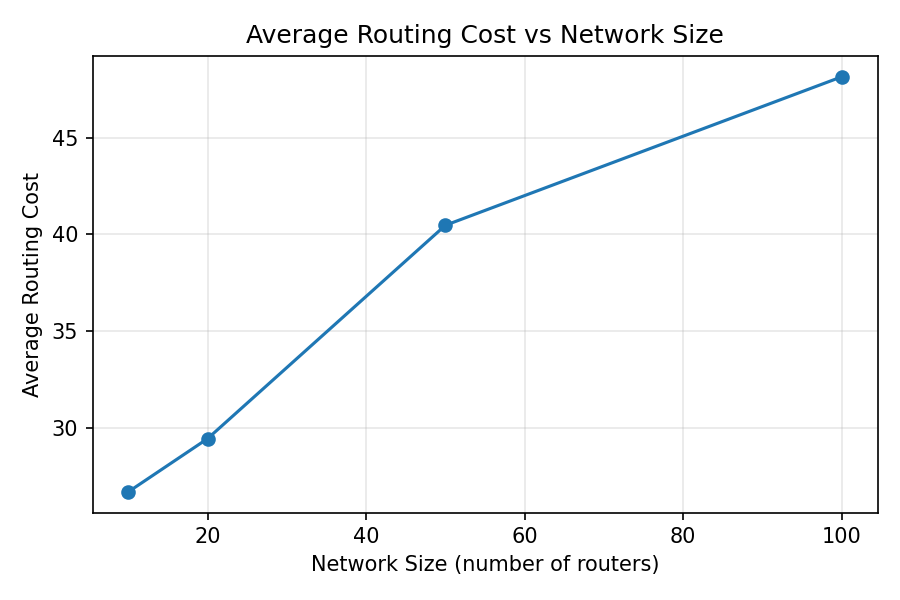
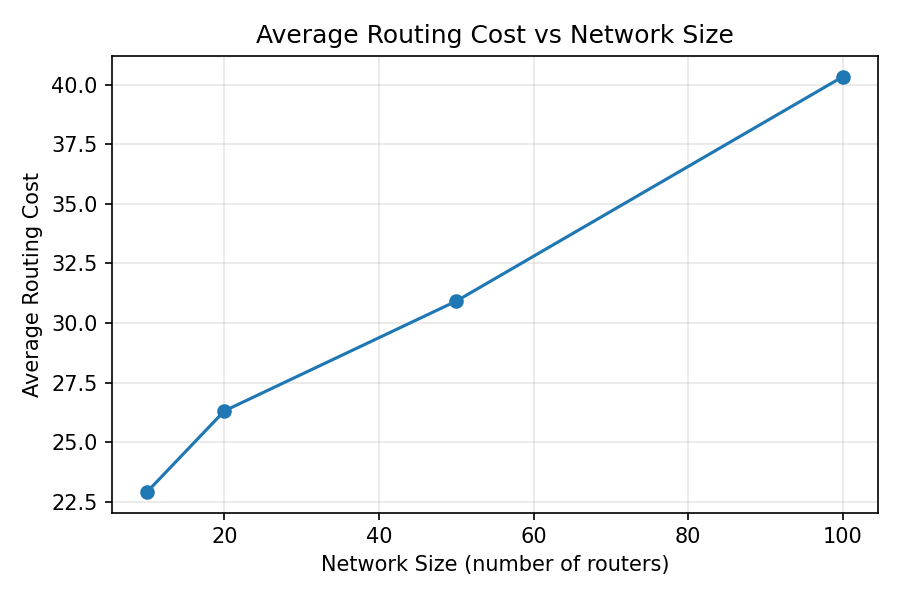
Fixes towards GUI and design

diff --git a/routing-sim/src/gui.py b/routing-sim/src/gui.py
@@ -117,16 +117,12 @@ class RoutingSimGUI(tk.Tk):
         row.pack(fill=tk.X, pady=2)
         ttk.Label(row, text="Source:").grid(row=0, column=0, sticky=tk.W)
         self.source_var = tk.StringVar()
-        self.source_combo = ttk.Combobox(
-            row, textvariable=self.source_var, width=8, state="readonly"
-        )
+        self.source_combo = self._make_dropdown(row, self.source_var, width=6)
         self.source_combo.grid(row=0, column=1, padx=4)
 
         ttk.Label(row, text="Dest:").grid(row=0, column=2, sticky=tk.W)
         self.dest_var = tk.StringVar()
-        self.dest_combo = ttk.Combobox(
-            row, textvariable=self.dest_var, width=8, state="readonly"
-        )
+        self.dest_combo = self._make_dropdown(row, self.dest_var, width=6)
         self.dest_combo.grid(row=0, column=3, padx=4)
 
         ttk.Button(box, text="Send Packet", command=self.on_send_packet).pack(
@@ -146,9 +142,7 @@ class RoutingSimGUI(tk.Tk):
         row.pack(fill=tk.X, pady=2)
         ttk.Label(row, text="Router:").pack(side=tk.LEFT)
         self.table_router_var = tk.StringVar()
-        self.table_router_combo = ttk.Combobox(
-            row, textvariable=self.table_router_var, width=8, state="readonly"
-        )
+        self.table_router_combo = self._make_dropdown(row, self.table_router_var, width=6)
         self.table_router_combo.pack(side=tk.LEFT, padx=4)
         ttk.Button(row, text="Show Table", command=self.on_show_table).pack(
             side=tk.LEFT, padx=4
@@ -178,9 +172,7 @@ class RoutingSimGUI(tk.Tk):
         row.pack(fill=tk.X, pady=2)
         ttk.Label(row, text="Link:").pack(side=tk.LEFT)
         self.link_var = tk.StringVar()
-        self.link_combo = ttk.Combobox(
-            row, textvariable=self.link_var, width=14, state="readonly"
-        )
+        self.link_combo = self._make_dropdown(row, self.link_var, width=12)
         self.link_combo.pack(side=tk.LEFT, padx=4)
         ttk.Button(row, text="Fail Link", command=self.on_fail_link).pack(
             side=tk.LEFT, padx=2
@@ -190,9 +182,7 @@ class RoutingSimGUI(tk.Tk):
         row2.pack(fill=tk.X, pady=2)
         ttk.Label(row2, text="Router:").pack(side=tk.LEFT)
         self.fail_router_var = tk.StringVar()
-        self.fail_router_combo = ttk.Combobox(
-            row2, textvariable=self.fail_router_var, width=8, state="readonly"
-        )
+        self.fail_router_combo = self._make_dropdown(row2, self.fail_router_var, width=6)
         self.fail_router_combo.pack(side=tk.LEFT, padx=4)
         ttk.Button(row2, text="Fail Router", command=self.on_fail_router).pack(
             side=tk.LEFT, padx=2
@@ -216,25 +206,44 @@ class RoutingSimGUI(tk.Tk):
         self.log_text.see(tk.END)
         self.log_text.configure(state=tk.DISABLED)
 
+    def _make_dropdown(self, parent, variable: tk.StringVar, width: int = 8) -> tk.OptionMenu:
+        """A tk.OptionMenu-based dropdown.
+
+        We deliberately avoid ttk.Combobox here: Tk 8.6.12 (bundled with
+        several recent python.org macOS installers) has a known Aqua bug
+        where clicks inside the combobox's popdown listbox are ignored, so
+        users can open the list but can never actually select an item.
+        tk.OptionMenu renders its list as a native menu instead, which
+        isn't affected by that bug.
+        """
+        om = tk.OptionMenu(parent, variable, "")
+        om.configure(width=width, anchor=tk.W)
+        return om
+
+    def _set_dropdown_values(self, dropdown: tk.OptionMenu, variable: tk.StringVar, values):
+        menu = dropdown["menu"]
+        menu.delete(0, "end")
+        for v in values:
+            menu.add_command(label=v, command=lambda val=v: variable.set(val))
+
     def refresh_router_dropdowns(self):
         routers = self.network.routers
-        for combo in (
-            self.source_combo,
-            self.dest_combo,
-            self.table_router_combo,
-            self.fail_router_combo,
+        for combo, var in (
+            (self.source_combo, self.source_var),
+            (self.dest_combo, self.dest_var),
+            (self.table_router_combo, self.table_router_var),
+            (self.fail_router_combo, self.fail_router_var),
         ):
-            combo["values"] = routers
+            self._set_dropdown_values(combo, var, routers)
         if routers:
             self.source_var.set(routers[0])
             self.dest_var.set(routers[-1])
             self.table_router_var.set(routers[0])
             self.fail_router_var.set(routers[-1])
-        self.link_combo["values"] = [
-            f"{a}-{b}" for a, b, _ in sorted(self.network.edges())
-        ]
-        if self.link_combo["values"]:
-            self.link_var.set(self.link_combo["values"][0])
+        link_values = [f"{a}-{b}" for a, b, _ in sorted(self.network.edges())]
+        self._set_dropdown_values(self.link_combo, self.link_var, link_values)
+        if link_values:
+            self.link_var.set(link_values[0])
         self.topology_info_var.set(
             f"{len(self.network)} routers, {len(self.network.edges())} links"
         )

diff --git a/routing-sim/src/simulator.py b/routing-sim/src/simulator.py
@@ -63,11 +63,18 @@ class Simulator:
         return next(self._packet_counter)
 
     def forward_packet(
-        self, source: str, destination: str, packet_id: Optional[int] = None
+        self,
+        source: str,
+        destination: str,
+        packet_id: Optional[int] = None,
+        verbose: bool = True,
     ):
         """Simulate a packet travelling hop-by-hop from source to
-        destination along the shortest path, as computed by each router's
-        Dijkstra routing table.
+        destination. The packet object is physically handed to each
+        simulated Router object in turn - it is each Router's own
+        `forward()` method that stamps its label onto the packet, updates
+        the hop count / accumulated cost, and decides (from its own
+        Dijkstra routing table) which router to hand the packet to next.
         """
         if source not in self.network:
             raise ValueError(f"Unknown source router: {source}")
@@ -78,26 +85,17 @@ class Simulator:
         packet = Packet(id=pid, source=source, destination=destination)
 
         current = source
-        packet.visit(current)  # originating router stamps itself, no cost yet
-
-        if source == destination:
-            return packet
-
-        visited_guard = {current}
-        while current != destination:
-            router = self.routers[current]
-            nxt = router.next_hop(destination)
-            if nxt is None:
-                raise RuntimeError(
-                    f"Router {current} has no route to {destination}; "
-                    "destination may be unreachable."
-                )
-            link_cost = self.network.link_cost(current, nxt)
-            packet.visit(nxt, link_cost)
-            current = nxt
+        visited_guard = set()
+        while True:
             if current in visited_guard:
                 raise RuntimeError("Routing loop detected while forwarding packet")
             visited_guard.add(current)
+
+            router = self.routers[current]
+            nxt = router.forward(packet, verbose=verbose)  # packet passed to the router object
+            if nxt is None:
+                break  # router.forward() returns None once it IS the destination
+            current = nxt
 
         return packet
 

diff --git a/routing-sim/src/router.py b/routing-sim/src/router.py
@@ -59,6 +59,40 @@ class Router:
         self.routing_table = table
         return table
 
+    def forward(self, packet, verbose: bool = True):
+        """Process a packet that has arrived at this router (Part C).
+
+        This is the router's own action on the packet, as required by the
+        assignment: the router stamps its label onto `packet.path`, bumps
+        `packet.hop_count`, and adds the cost of the link it arrived on to
+        `packet.total_cost` (all via `Packet.visit`) - then optionally
+        displays what it just did. It finally returns the next hop toward
+        the packet's destination, or None if this router IS the
+        destination (forwarding is complete).
+        """
+        previous_hop = packet.path[-1] if packet.path else None
+        link_cost = self.network.link_cost(previous_hop, self.router_id) if previous_hop else 0.0
+
+        packet.visit(self.router_id, link_cost)
+
+        if verbose:
+            print(
+                f"  [{self.router_id}] forwarding {packet.label()}: "
+                f"path so far = {packet.path_str()}, "
+                f"hop_count = {packet.hop_count}, total_cost = {packet.total_cost:g}"
+            )
+
+        if self.router_id == packet.destination:
+            return None
+
+        nxt = self.next_hop(packet.destination)
+        if nxt is None:
+            raise RuntimeError(
+                f"Router {self.router_id} has no route to {packet.destination}; "
+                "destination may be unreachable."
+            )
+        return nxt
+
     def next_hop(self, destination: str):
         entry = self.routing_table.get(destination)
         return entry.next_hop if entry else None

diff --git a/routing-sim/src/network.py b/routing-sim/src/network.py
@@ -18,18 +18,12 @@ from __future__ import annotations
 import csv
 import math
 import random
-from typing import Dict, Iterable, List, Optional, Tuple
+from typing import Dict, Optional
 
 INF = math.inf
 
 
 class Network:
-    """Weighted, undirected graph representing a router topology.
-
-    Internal representation: adjacency dict of dicts.
-        self._adj["R1"]["R2"] = 4.0   means a link R1<->R2 with cost 4.0
-    Absence of a key means "no direct link" (infinite cost).
-    """
 
     def __init__(self):
         self._adj: Dict[str, Dict[str, float]] = {}
@@ -81,7 +75,6 @@ class Network:
         return dict(self._adj.get(router_id, {}))
 
     def edges(self):
-        """Return each undirected edge once as (a, b, cost)."""
         seen = set()
         result = []
         for a in self._adj:
@@ -164,19 +157,9 @@ class Network:
         num_routers: int,
         min_cost: int = 1,
         max_cost: int = 20,
-        extra_edge_ratio: float = 0.3,
+        extra_edge_ratio: float = 0.5,
         seed: Optional[int] = None,
     ):
-        """Generate a random, guaranteed-connected topology.
-
-        Strategy:
-          1. Create `num_routers` routers R1..Rn.
-          2. Build a random spanning tree over them (guarantees full
-             connectivity with n-1 edges, no cycles yet).
-          3. Add extra random edges (redundant paths) on top, so the graph
-             is not a tree, controlled by `extra_edge_ratio` (fraction of
-             the n-1 tree edges to add as additional random edges).
-        """
         rng = random.Random(seed)
         net = cls()
         ids = [f"R{i}" for i in range(1, num_routers + 1)]

diff --git a/routing-sim/tests/test_router.py b/routing-sim/tests/test_router.py
@@ -98,3 +98,38 @@ def test_routing_table_skips_unreachable_destinations():
     table = router.build_routing_table()
     assert "R3" not in table
     assert "R2" in table
+
+
+def test_router_forward_stamps_label_and_updates_packet():
+    """Part C: the ROUTER object itself (not an external simulator) must
+    stamp its label onto the packet and update hop_count/total_cost."""
+    from src.packet import Packet
+
+    net = make_sample_network()
+    routers = build_all_routing_tables(net)
+    packet = Packet(id=1, source="R1", destination="R4")
+
+    nxt = routers["R1"].forward(packet, verbose=False)
+    assert packet.path == ["R1"]
+    assert packet.hop_count == 0
+    assert packet.total_cost == 0
+    assert nxt == "R2"
+
+    nxt = routers["R2"].forward(packet, verbose=False)
+    assert packet.path == ["R1", "R2"]
+    assert packet.hop_count == 1
+    assert packet.total_cost == 1
+    assert nxt == "R3"
+
+
+def test_router_forward_returns_none_at_destination():
+    from src.packet import Packet
+
+    net = make_sample_network()
+    routers = build_all_routing_tables(net)
+    packet = Packet(id=2, source="R1", destination="R1")
+
+    nxt = routers["R1"].forward(packet, verbose=False)
+    assert nxt is None
+    assert packet.path == ["R1"]
+    assert packet.hop_count == 0

diff --git a/routing-sim/analysis/results/performance_results.md b/routing-sim/analysis/results/performance_results.md
@@ -1,6 +1,6 @@
 | Network Size | Avg Path Length (hops) | Avg Routing Cost | Routing Table Entries | Computation Time (ms) | Entries Changed After Topology Change | Recompute Time After Change (ms) |
 |---|---|---|---|---|---|---|
-| 10 | 2.53 | 26.71 | 90 | 0.621 | 28 | 0.639 |
-| 20 | 3.16 | 29.46 | 380 | 3.507 | 38 | 2.578 |
-| 50 | 4.55 | 40.47 | 2450 | 16.629 | 98 | 17.027 |
-| 100 | 5.26 | 48.14 | 9900 | 67.147 | 392 | 75.352 |
+| 10 | 2.18 | 22.91 | 90 | 0.374 | 6 | 0.326 |
+| 20 | 2.86 | 26.31 | 380 | 1.222 | 58 | 1.289 |
+| 50 | 4.21 | 30.92 | 2450 | 8.304 | 121 | 8.450 |
+| 100 | 4.77 | 40.34 | 9900 | 33.175 | 282 | 33.725 |
